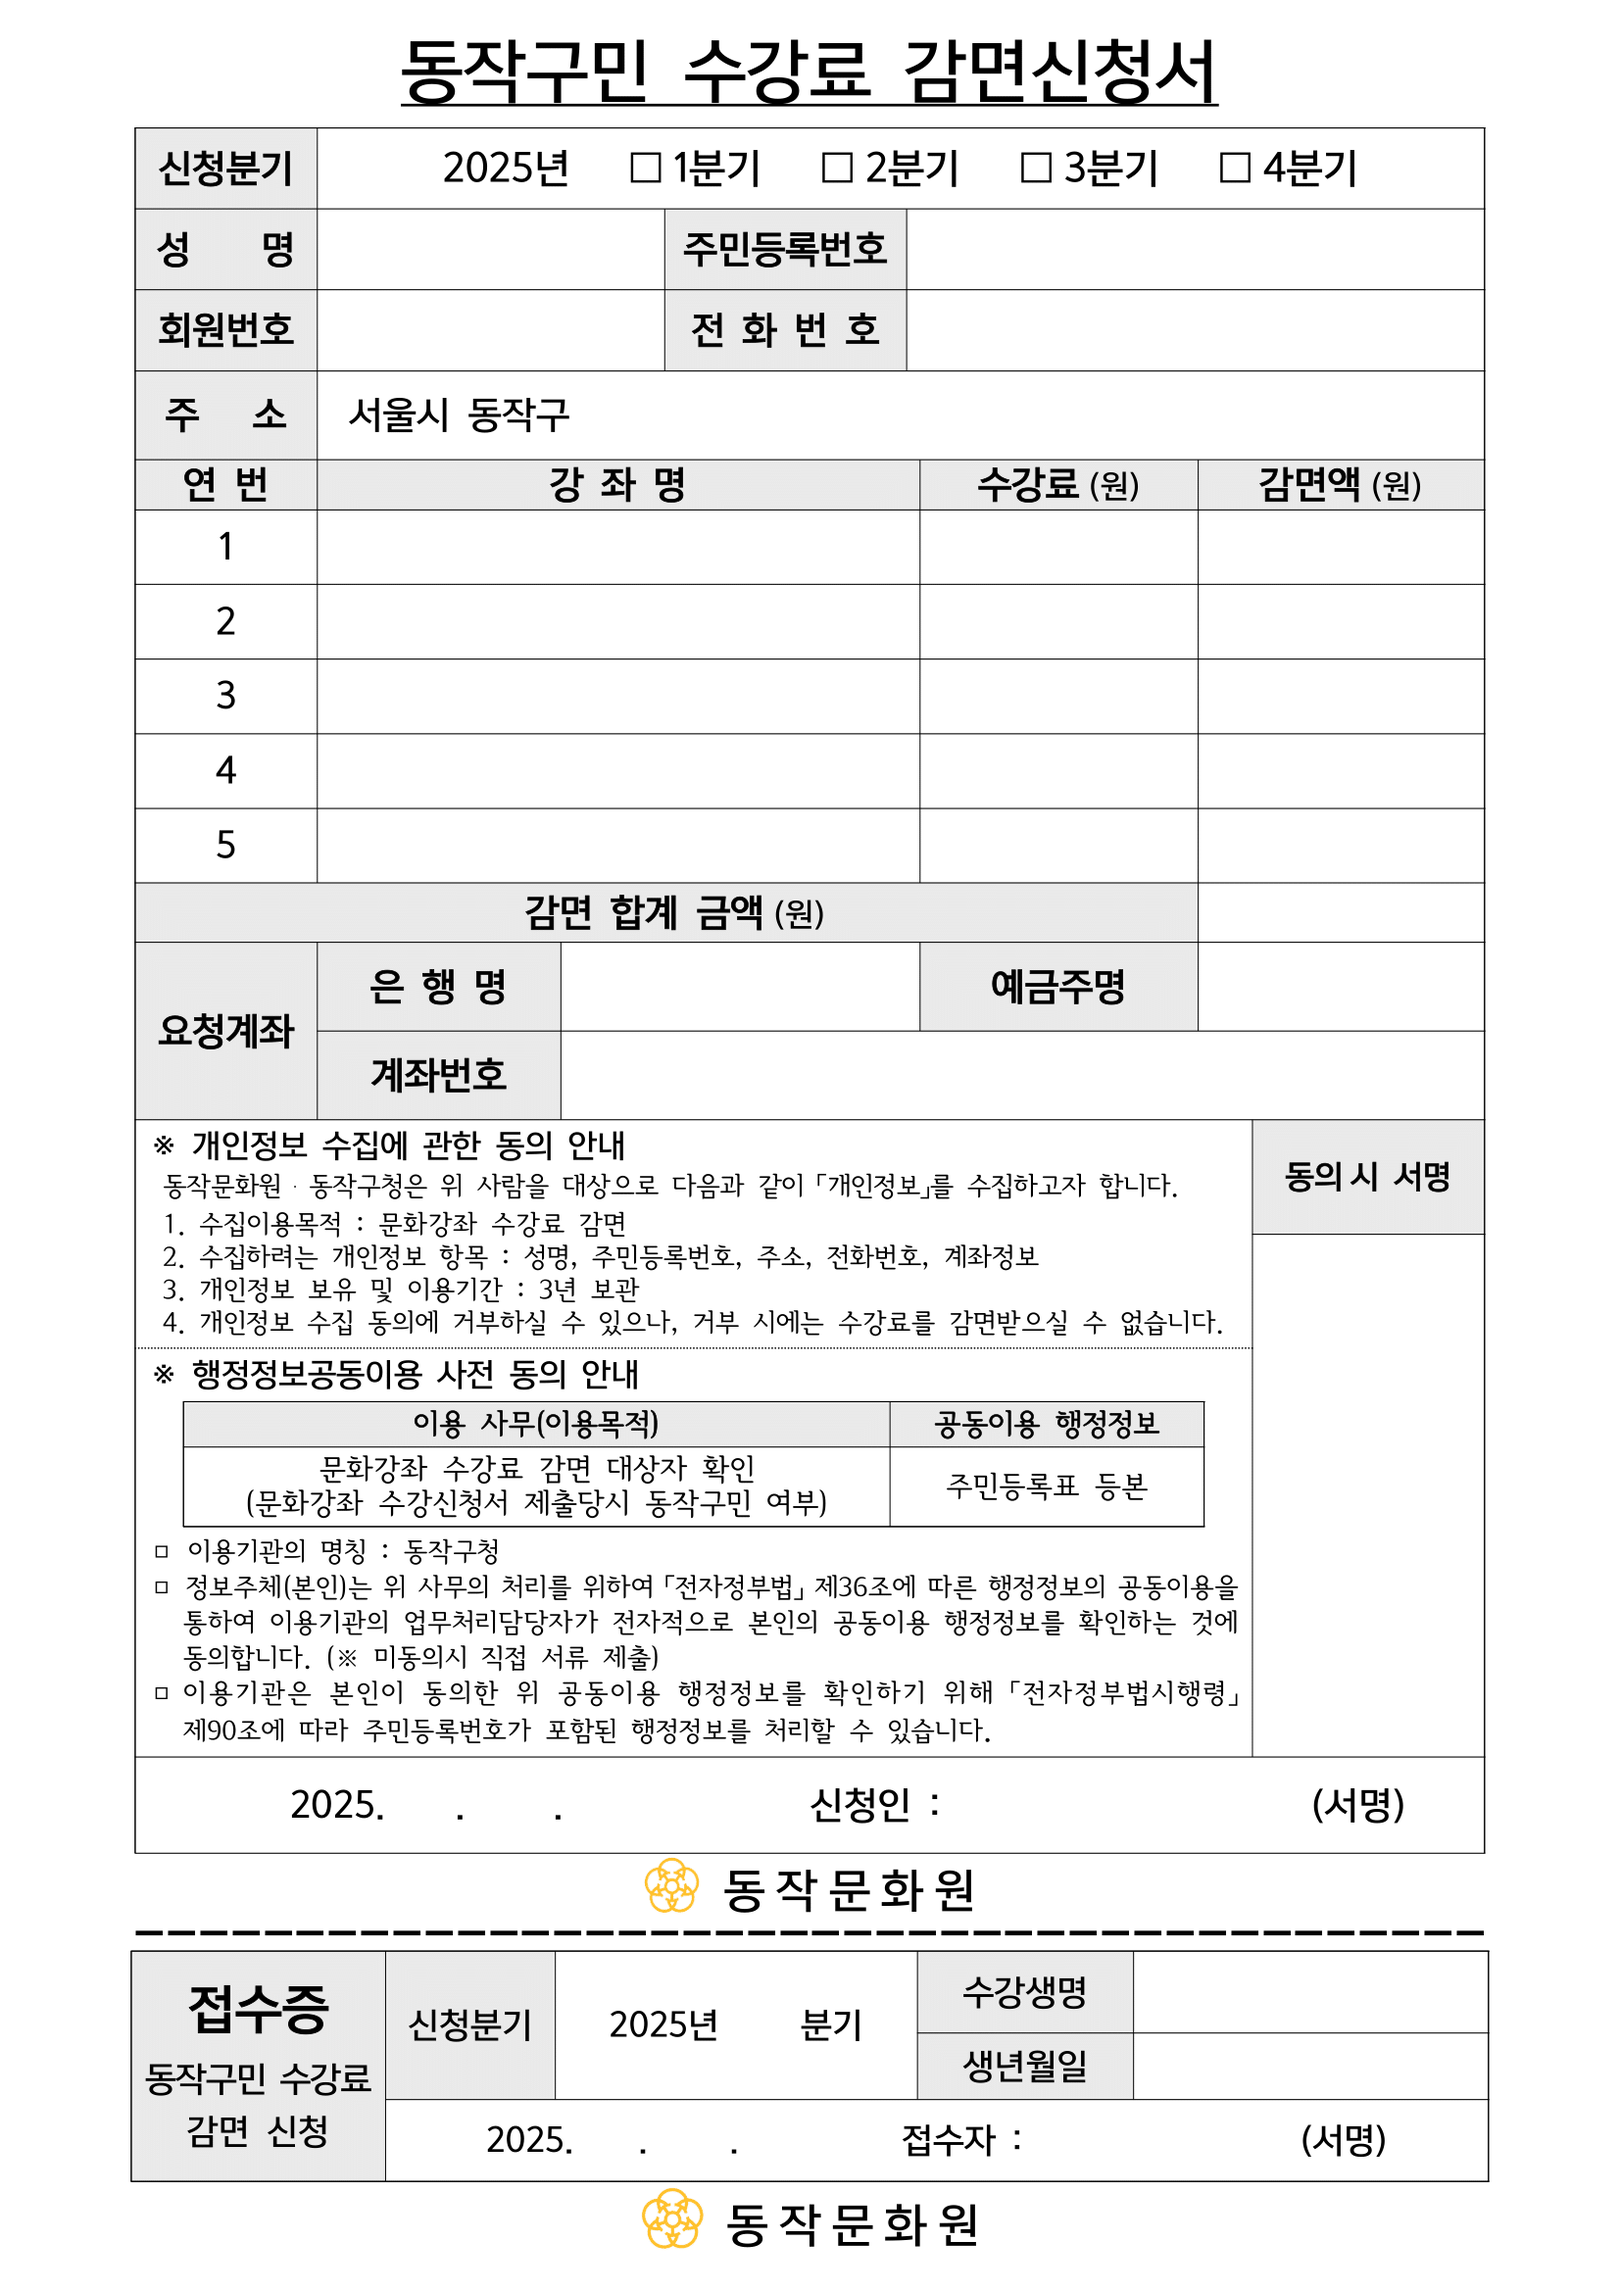
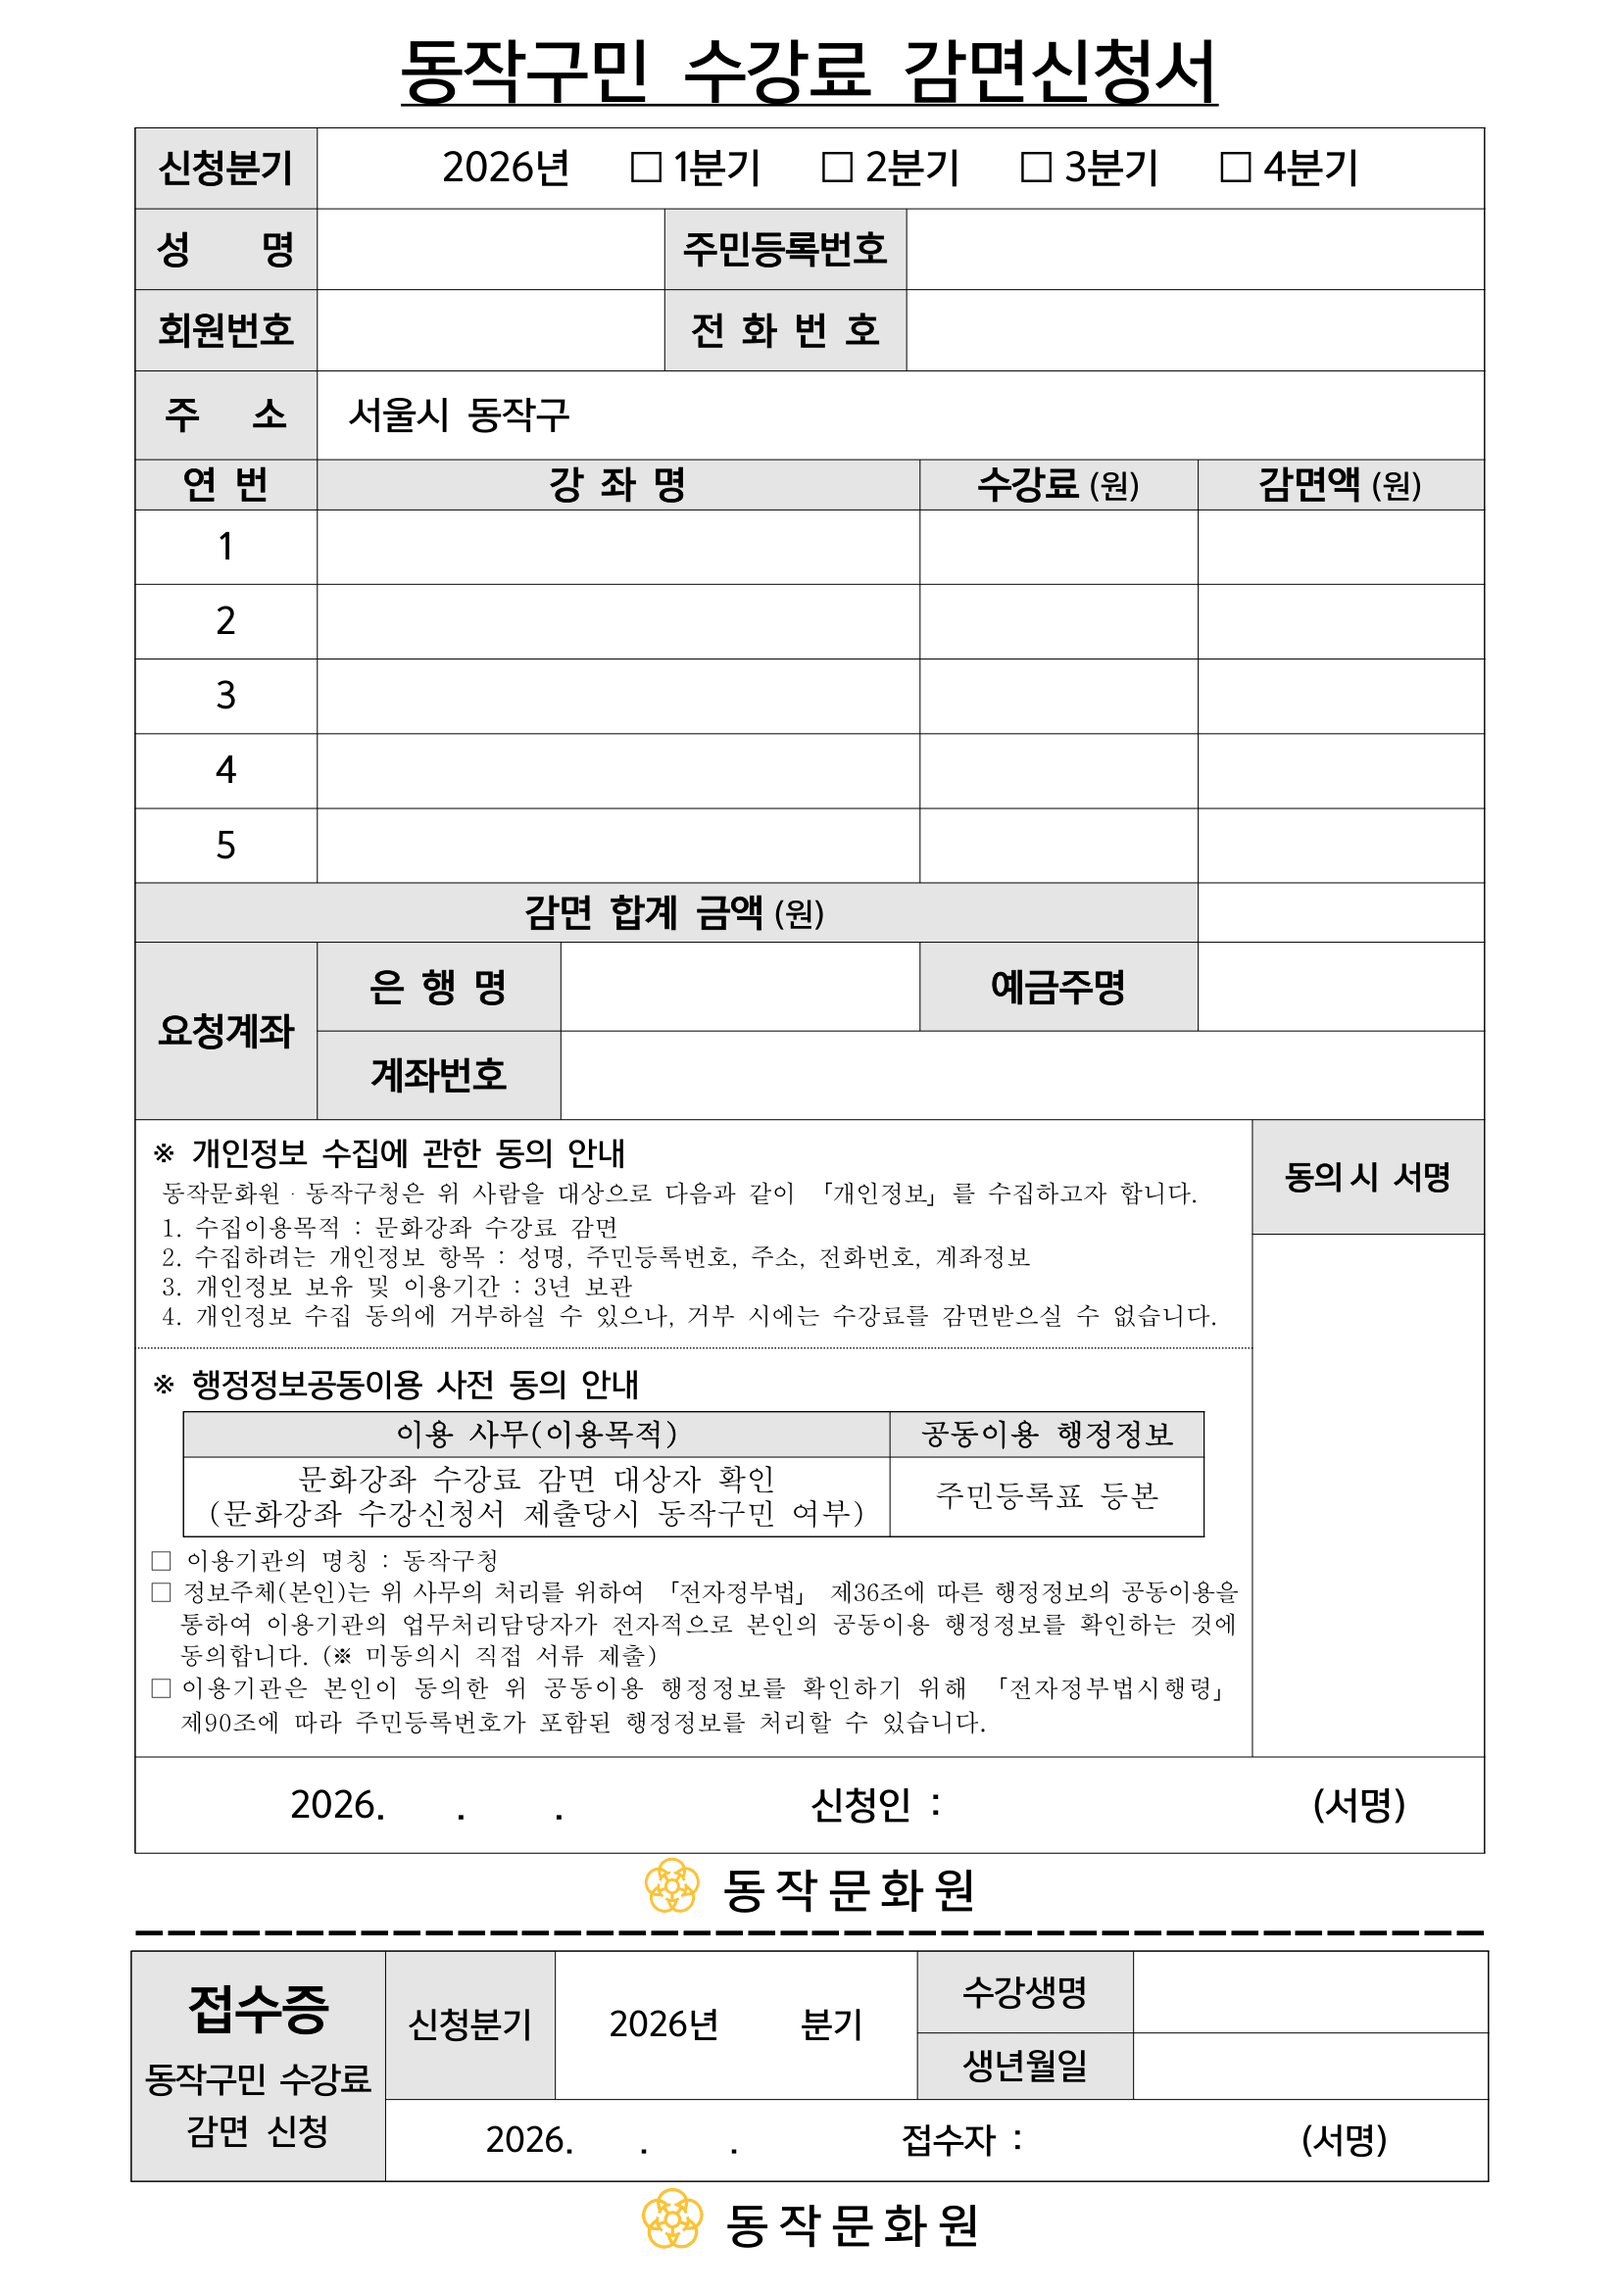
feat: 이미지 내 좌표 정보 저장 모듈 / pdf 생성 모듈 개발

diff --git a/generate_pdf.py b/generate_pdf.py
@@ -9,41 +9,91 @@ from reportlab.pdfbase.cidfonts import UnicodeCIDFont
 from pdf_positions import POSITIONS
 
 # =========================
+# 테스트 설정
+# =========================
+TEST_MODE = False
+TEST_LIMIT_GROUP = 1
+TEST_ALL_QUARTERS = True
+
+# =========================
 # 기본 설정
 # =========================
 INPUT_EXCEL = os.path.join("input", "generate_pdf", "results_pdf.xlsx")
-BG_IMAGE = "assets/form_bg.png"
 OUTPUT_DIR = os.path.join("output", "generate_pdf")
+BG_IMAGE = "assets/form_bg.png"
 
-APPLICATION_QUARTER = "2026년 1분기"
+APPLICATION_QUARTER = "1분기"
+
 MAX_COURSE_PER_PAGE = 5
 MAX_TOTAL_COURSE = 15
 
 FONT_NAME = "HYSMyeongJo-Medium"
 
 os.makedirs(OUTPUT_DIR, exist_ok=True)
-
-# =========================
-# 한글 폰트 등록
-# =========================
 pdfmetrics.registerFont(UnicodeCIDFont(FONT_NAME))
 
 
 # =========================
-# 공통 텍스트 출력 함수
+# 텍스트 출력
 # =========================
 def draw_text(c, text, x, y, size=10):
-    if pd.isna(text):
+    if pd.isna(text) or str(text).strip() == "":
         return
     c.setFont(FONT_NAME, size)
     c.drawString(x, y, str(text))
 
 
 # =========================
-# PDF 1장 생성
+# 주소 처리 함수 (신규 추가)
 # =========================
-def create_pdf(user, courses, page_index):
-    filename = f"감면신청서_{user['이름']}_{user['회원번호']}_{page_index}.pdf"
+def draw_address(c, address):
+
+    if pd.isna(address) or str(address).strip() == "":
+        return
+
+    address = str(address).strip()
+
+    # 괄호 포함 여부 체크
+    if "(" in address and ")" in address:
+
+        # 괄호 기준 분리
+        main_part = address.split("(")[0].strip()
+        bracket_part = "(" + address.split("(")[1]
+
+        draw_text(c, main_part, *POSITIONS["상세 주소_괄호_있음_1"], size=9)
+        draw_text(c, bracket_part, *POSITIONS["상세 주소_괄호_있음_2"], size=9)
+
+    else:
+        draw_text(c, address, *POSITIONS["상세 주소_괄호_없음"], size=9)
+
+
+# =========================
+# 개인정보 검증
+# =========================
+def validate_primary_row(row):
+    required_fields = [
+        "주민번호",
+        "전화번호",
+        "은행명",
+        "예금주",
+        "계좌번호",
+        "상세 주소",
+    ]
+
+    missing = []
+    for field in required_fields:
+        if pd.isna(row[field]) or str(row[field]).strip() == "":
+            missing.append(field)
+
+    return missing
+
+
+# =========================
+# PDF 생성
+# =========================
+def create_pdf(user_row, course_rows, page_index, quarter):
+
+    filename = f"{quarter}_감면신청서_{user_row['이름']}_{user_row['회원번호']}_{page_index}.pdf"
     filepath = os.path.join(OUTPUT_DIR, filename)
 
     c = canvas.Canvas(filepath, pagesize=A4)
@@ -51,23 +101,31 @@ def create_pdf(user, courses, page_index):
     # 배경 이미지
     c.drawImage(BG_IMAGE, 0, 0, width=A4[0], height=A4[1])
 
-    # 상단 정보 (모든 페이지 동일)
-    draw_text(c, APPLICATION_QUARTER, *POSITIONS["quarter"])
-    draw_text(c, user["이름"], *POSITIONS["name"])
-    draw_text(c, user["주민번호"], *POSITIONS["resident_id"])
-    draw_text(c, user["회원번호"], *POSITIONS["member_no"])
-    draw_text(c, user["전화번호"], *POSITIONS["phone"])
-    draw_text(c, user["상세 주소"], *POSITIONS["address"], size=9)
+    # 분기 체크
+    if quarter in POSITIONS:
+        draw_text(c, "■", *POSITIONS[quarter], size=18)
+    else:
+        print(f"[ERROR] 분기 키 없음: {quarter}")
+
+    # 기본 정보
+    draw_text(c, user_row["이름"], *POSITIONS["이름"])
+    draw_text(c, user_row["주민번호"], *POSITIONS["주민번호"])
+    draw_text(c, user_row["회원번호"], *POSITIONS["회원번호"])
+    draw_text(c, user_row["전화번호"], *POSITIONS["전화번호"])
+
+    # 🔥 수정된 주소 처리
+    draw_address(c, user_row["상세 주소"])
 
     # 강좌 영역
-    for idx, course in enumerate(courses):
-        draw_text(c, course["강좌"], *POSITIONS["course"][idx])
-        draw_text(c, f"{int(course['금액']):,}", *POSITIONS["price"][idx])
+    for idx, row in enumerate(course_rows):
+        draw_text(c, row["강좌"], *POSITIONS["강좌"][idx])
+        draw_text(c, f"{int(row['금액']):,}", *POSITIONS["금액"][idx])
+        draw_text(c, f"{int(row['감면액']):,}", *POSITIONS["감면액"][idx])
 
     # 계좌 정보
-    draw_text(c, user["은행명"], *POSITIONS["bank"])
-    draw_text(c, user["예금주"], *POSITIONS["account_holder"])
-    draw_text(c, user["계좌번호"], *POSITIONS["account_number"])
+    draw_text(c, user_row["은행명"], *POSITIONS["은행명"])
+    draw_text(c, user_row["예금주"], *POSITIONS["예금주"])
+    draw_text(c, user_row["계좌번호"], *POSITIONS["계좌번호"])
 
     c.showPage()
     c.save()
@@ -76,37 +134,56 @@ def create_pdf(user, courses, page_index):
 
 
 # =========================
-# 메인 실행
+# 메인
 # =========================
 def main():
     df = pd.read_excel(INPUT_EXCEL)
 
-    # PK 기준 groupby
-    grouped = df.groupby(["회원번호", "이름"], sort=False)
+    grouped = list(df.groupby(["회원번호", "이름"], sort=False))
+
+    if TEST_MODE:
+        grouped = grouped[:TEST_LIMIT_GROUP]
+        print(f"\n[TEST MODE] 상위 {TEST_LIMIT_GROUP}명 생성\n")
 
     for (member_no, name), group in grouped:
+
         total_courses = len(group)
 
-        # 🔴 검증
         if total_courses > MAX_TOTAL_COURSE:
-            raise ValueError(
-                f"[ERROR] {name}({member_no}) 강좌 수 {total_courses}개 → 최대 15개 초과"
-            )
+            print(f"[ERROR] {name}({member_no}) 강좌 {total_courses}개 → 15개 초과")
+            continue
 
-        # 공통 정보 (첫 행 기준)
-        user = group.iloc[0]
+        primary_rows = group[group["등록건 수"] == 1]
 
-        # 강좌 리스트
-        courses = group[["강좌", "금액"]].to_dict("records")
+        if len(primary_rows) != 1:
+            print(f"[ERROR] {name}({member_no}) 등록건 수 1 행 {len(primary_rows)}개")
+            continue
 
+        primary_row = primary_rows.iloc[0]
+
+        missing_fields = validate_primary_row(primary_row)
+
+        if missing_fields:
+            print(f"[ERROR] {name}({member_no}) 개인정보 누락: {missing_fields}")
+            continue
+
+        courses = group.sort_values("등록건 수")
         total_pages = math.ceil(total_courses / MAX_COURSE_PER_PAGE)
 
-        for page in range(total_pages):
-            start = page * MAX_COURSE_PER_PAGE
-            end = start + MAX_COURSE_PER_PAGE
-            page_courses = courses[start:end]
+        quarters = (
+            ["1분기", "2분기", "3분기", "4분기"]
+            if TEST_MODE and TEST_ALL_QUARTERS
+            else [APPLICATION_QUARTER]
+        )
 
-            create_pdf(user, page_courses, page + 1)
+        for quarter in quarters:
+            for page in range(total_pages):
+                start = page * MAX_COURSE_PER_PAGE
+                end = start + MAX_COURSE_PER_PAGE
+
+                page_courses = courses.iloc[start:end].to_dict("records")
+
+                create_pdf(primary_row, page_courses, page + 1, quarter)
 
 
 if __name__ == "__main__":

diff --git a/pdf_positions.py b/pdf_positions.py
@@ -3,28 +3,43 @@ from reportlab.lib.pagesizes import A4
 PAGE_WIDTH, PAGE_HEIGHT = A4
 
 POSITIONS = {
-    "quarter": (120, 760),
-    "name": (120, 720),
-    "resident_id": (300, 720),
-    "member_no": (480, 720),
-    "phone": (120, 690),
-    "address": (120, 660),
-    # 강좌 5개
-    "course": [
-        (120, 580),
-        (120, 560),
-        (120, 540),
-        (120, 520),
-        (120, 500),
+    # 분기
+    "1분기": (229, 775),
+    "2분기": (299, 775),
+    "3분기": (372, 775),
+    "4분기": (445, 775),
+    # 이름, 주민번호, 회원번호, 전화번호, 주소
+    "이름": (123, 749),
+    "주민번호": (337, 748),
+    "회원번호": (122, 718),
+    "전화번호": (337, 719),
+    "상세 주소_괄호_있음_1": (220, 693),
+    "상세 주소_괄호_있음_2": (218, 680),
+    "상세 주소_괄호_없음": (216, 686),
+    # 강좌, 금액, 감면액
+    "강좌": [
+        (122, 640),
+        (122, 613),
+        (122, 582),
+        (122, 556),
+        (122, 528),
     ],
-    "price": [
-        (380, 580),
-        (380, 560),
-        (380, 540),
-        (380, 520),
-        (380, 500),
+    "금액": [
+        (369, 640),
+        (369, 613),
+        (369, 582),
+        (369, 556),
+        (369, 528),
     ],
-    "bank": (120, 450),
-    "account_holder": (260, 450),
-    "account_number": (380, 450),
+    "감면액": [
+        (473, 640),
+        (473, 613),
+        (473, 582),
+        (473, 556),
+        (473, 528),
+    ],
+    # 은행명, 예금주, 계좌번호
+    "은행명": (214, 475),
+    "예금주": (447, 475),
+    "계좌번호": (213, 444),
 }

diff --git a/image_coordinate_picker.py b/image_coordinate_picker.py
@@ -1,0 +1,49 @@
+import cv2
+
+# =========================
+# PDF A4 크기 (point 단위)
+# =========================
+PDF_WIDTH = 595
+PDF_HEIGHT = 842
+
+IMAGE_PATH = "assets/form_bg.png"
+
+img = cv2.imread(IMAGE_PATH)
+
+if img is None:
+    raise FileNotFoundError("이미지를 찾을 수 없습니다.")
+
+# A4 비율로 리사이즈 (왜곡 없음, 동일 비율)
+img_resized = cv2.resize(img, (PDF_WIDTH, PDF_HEIGHT))
+
+print("PDF 좌표 추출 모드")
+print("왼쪽 아래가 (0,0)")
+print("ESC 누르면 종료")
+
+
+def mouse_callback(event, x, y, flags, param):
+    if event == cv2.EVENT_LBUTTONDOWN:
+
+        # OpenCV는 왼쪽 상단이 (0,0)
+        # PDF는 왼쪽 하단이 (0,0)
+        pdf_x = x
+        pdf_y = PDF_HEIGHT - y
+
+        print(f"PDF 좌표: ({pdf_x}, {pdf_y})")
+
+        cv2.circle(display, (x, y), 4, (0, 0, 255), -1)
+        cv2.imshow("PDF Coordinate Picker", display)
+
+
+display = img_resized.copy()
+
+cv2.namedWindow("PDF Coordinate Picker")
+cv2.setMouseCallback("PDF Coordinate Picker", mouse_callback)
+cv2.imshow("PDF Coordinate Picker", display)
+
+while True:
+    key = cv2.waitKey(1)
+    if key == 27:  # ESC
+        break
+
+cv2.destroyAllWindows()
